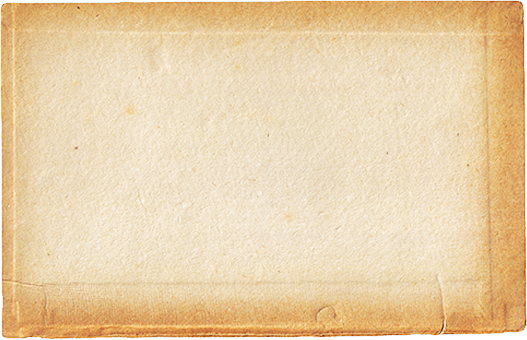
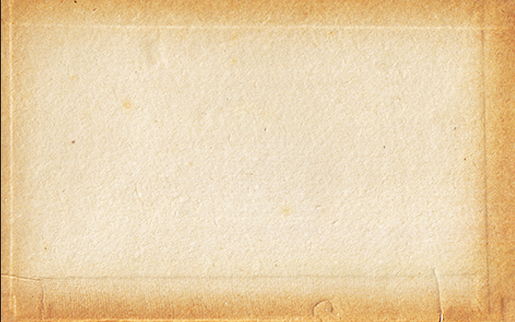
Changed design

diff --git a/Interface.cpp b/Interface.cpp
@@ -1,5 +1,7 @@
 #include "Interface.h"
 
+#include <iostream>
+
 Text globalTime;
 int hour = 0, minute = 0, second = 0;
 
@@ -93,17 +95,11 @@ void Interface::showMessage(const std::wstring& msg) const
 {
     int windowWidth = fieldSize * 7, windowHeight = fieldSize * 4;
 
-    // RectangleShape messageWindow(Vector2f(windowWidth, windowHeight));
-    // messageWindow.setPosition((screenWidth - windowWidth) / 2, (screenHeight - windowHeight) / 2);
-    // messageWindow.setOutlineThickness(0.0047 * screenHeight);
-    // messageWindow.setOutlineColor(Color::Black);
-
-    Text messageText(msg, arialFont, 0.03704 * screenHeight);
-    messageText.setFillColor(Color::Black);
+    Text messageText(msg, optimaFont, 0.03704 * screenHeight);
+    messageText.setFillColor(Color(85, 4, 29));
     messageText.setPosition((screenWidth - messageText.getGlobalBounds().width) / 2, (screenHeight - messageText.getGlobalBounds().height) / 2);
+    img["dialogBackground"].second.setPosition((screenWidth - windowWidth) / 2, (screenHeight - windowWidth) / 2);
 
-    
-    // window->draw(messageWindow);
     window->draw(img["dialogBackground"].second);
     window->draw(messageText);
     window->display();
@@ -114,34 +110,56 @@ void Interface::showMessage(const std::wstring& msg) const
 bool Interface::showWarning(const std::wstring& msg) const
 {
     int windowWidth = fieldSize * 7, windowHeight = fieldSize * 4;
-    int windowXPos = (window->getSize().x - windowWidth) / 2;
-    int windowYPos = (window->getSize().y - windowHeight) / 2;
+    int windowXPos = window->getPosition().x + (window->getSize().x - windowWidth) / 2;
+    int windowYPos = window->getPosition().y + (window->getSize().y - windowHeight) / 2;
 
-    RectangleShape messageWindow(Vector2f(windowWidth, windowHeight));
-    messageWindow.setPosition(windowXPos, windowYPos);
-    messageWindow.setOutlineThickness(0.0047 * screenHeight);
-    messageWindow.setOutlineColor(Color::Black);
+    RenderWindow warningWindow(VideoMode(windowWidth, windowHeight), L"Предупреждение!", Style::None);
+    warningWindow.setPosition(Vector2i(windowXPos, windowYPos));
 
-    Text messageText(msg, arialFont, 0.03704 * screenHeight);
-    messageText.setFillColor(Color::Black);
-    messageText.setPosition(windowXPos + (windowWidth - messageText.getGlobalBounds().width) / 2, windowYPos + fieldSize / 2);
+    Text messageText(msg, optimaFont, 0.03704 * screenHeight);
+    messageText.setFillColor(Color(85, 4, 29));
+    messageText.setPosition((windowWidth - messageText.getGlobalBounds().width) / 2, fieldSize / 2);
 
-    Button yesButton(window, Text(L"Да", arialFont, 0.0157 * screenWidth), windowXPos + fieldSize, windowYPos + fieldSize * 2.5, fieldSize * 2, fieldSize, Color::Blue, Color::Green);
-    Button noButton(window, Text(L"Нет", arialFont, 0.0157 * screenWidth), windowXPos + fieldSize * 4, windowYPos + fieldSize * 2.5, fieldSize * 2, fieldSize, Color::Blue, Color::Green);
+    Button yesButton(&warningWindow, Text(L"Да", optimaFont, 0.0157 * screenWidth), fieldSize, fieldSize * 2.5, fieldSize * 2, fieldSize, \
+            img["dialogWindowButton"].second.getTexture(), img["dialogWindowSelectedButton"].second.getTexture(), Color(85, 4, 29), Color(0, 36, 91));
+    Button noButton(&warningWindow, Text(L"Нет", optimaFont, 0.0157 * screenWidth), fieldSize * 4, fieldSize * 2.5, fieldSize * 2, fieldSize, \
+            img["dialogWindowButton"].second.getTexture(), img["dialogWindowSelectedButton"].second.getTexture(), Color(85, 4, 29), Color(0, 36, 91));
 
-    
-    window->draw(messageWindow);
-    window->draw(messageText);
+    img["dialogBackground"].second.setPosition(0, 0);
 
-    yesButton.drawButton();
-    noButton.drawButton();
-
-    window->display();
+    Event event;
 
     while(true)
     {
-        if (yesButton.isPressed()) return true;
-        else if (noButton.isPressed()) return false;   
+        while(warningWindow.pollEvent(event))
+        {
+            switch(event.type)
+            {
+                
+            }
+        }
+
+        warningWindow.clear();
+
+        warningWindow.draw(img["dialogBackground"].second);
+
+        warningWindow.draw(messageText);
+
+        yesButton.drawButton();
+        noButton.drawButton();
+
+        if (yesButton.isPressed()) 
+        {
+            warningWindow.close();
+            return true;
+        }
+        else if (noButton.isPressed())
+        {
+            warningWindow.close();
+            return false;
+        } 
+
+        warningWindow.display();
     }
 }
 
@@ -218,7 +236,6 @@ Interface::Interface(const RenderWindow* window)
     img["dialogBackground"] = std::pair(Texture(), RectangleShape(Vector2f(fieldSize * 7, fieldSize * 4)));
     img["dialogBackground"].first.loadFromFile("images/interface/windows/DialogWindowsBackground.png");
     img["dialogBackground"].second.setTexture(&img["dialogBackground"].first);
-    img["dialogBackground"].second.setPosition((screenWidth - fieldSize * 7) / 2, (screenHeight - fieldSize * 4) / 2);
 
     img["mainWindowsButton"] = std::pair(Texture(), RectangleShape(Vector2f(0.5 * Width, 0.07831 * Height)));
     img["mainWindowsButton"].first.loadFromFile("images/interface/buttons/MainWindowsButton.png");
@@ -227,6 +244,19 @@ Interface::Interface(const RenderWindow* window)
     img["mainWindowsSelectedButton"] = std::pair(Texture(), RectangleShape(Vector2f(0.255 * Width, 0.07831 * Height)));
     img["mainWindowsSelectedButton"].first.loadFromFile("images/interface/buttons/MainWindowsSelectedButton.png");
     img["mainWindowsSelectedButton"].second.setTexture(&img["mainWindowsSelectedButton"].first);
+
+    img["dialogWindowButton"] = std::pair(Texture(), RectangleShape(Vector2f(fieldSize * 2, fieldSize)));
+    img["dialogWindowButton"].first.loadFromFile("images/interface/buttons/DialogWindowButton.png");
+    img["dialogWindowButton"].second.setTexture(&img["dialogWindowButton"].first);
+
+    img["dialogWindowSelectedButton"] = std::pair(Texture(), RectangleShape(Vector2f(fieldSize * 2, fieldSize)));
+    img["dialogWindowSelectedButton"].first.loadFromFile("images/interface/buttons/DialogWindowSelectedButton.png");
+    img["dialogWindowSelectedButton"].second.setTexture(&img["dialogWindowSelectedButton"].first);
+
+    img["timerBackground"] = std::pair(Texture(), RectangleShape(Vector2f(fieldSize * 5, fieldSize * 1.3)));
+    img["timerBackground"].first.loadFromFile("images/interface/windows/TimerBackground.png");
+    img["timerBackground"].second.setTexture(&img["timerBackground"].first);
+    img["timerBackground"].second.setPosition(0.33 * screenWidth, 0.88 * screenHeight);
 }
 
 Interface::~Interface()
@@ -248,7 +278,7 @@ void Interface::mainMenu() const
     {
         button_text.setString(writing[i]);
         buttons.emplace_back(Button(window, button_text, button_xPos, (0.3358 + i * 0.1092) * Height, button_width, button_height, \
-        img["mainWindowsButton"].second.getTexture(), img["mainWindowsSelectedButton"].second.getTexture(), Color(85, 4, 29), Color(0, 36, 91)));
+            img["mainWindowsButton"].second.getTexture(), img["mainWindowsSelectedButton"].second.getTexture(), Color(85, 4, 29), Color(0, 36, 91)));
         buttons[i].setTextColor(Color::Black);
     }
 
@@ -305,9 +335,9 @@ void Interface::gameWindow() const
         }
     }
 
-    globalTime = Text("00:00:00", optimaFont, 0.0365 * screenWidth); // text for timer
+    globalTime = Text("00:00:00", optimaFont, 0.0265 * screenWidth); // text for timer
     globalTime.setFillColor(Color(85, 4, 29));
-    globalTime.setPosition(0.35 * screenWidth, 0.88 * screenHeight);
+    globalTime.setPosition(0.375 * screenWidth, 0.893 * screenHeight);
 
     Thread th(&timer);
 
@@ -396,6 +426,7 @@ void Interface::gameWindow() const
 
         window->draw(img["gameWindow"].second);
         window->draw(img["fieldBackground"].second);
+        window->draw(img["timerBackground"].second);
 
         exitButton.drawButton();
         startButton.drawButton();

diff --git a/Button.cpp b/Button.cpp
@@ -81,6 +81,23 @@ Button::Button(RenderWindow *window, int x, int y, int b_width, int b_height, co
     button.setTexture(this->texture); 
 }
 
+Button::Button(RenderWindow *window, const Text& text, int x, int y, int b_width, int b_height, const Texture* texture)
+{
+    this->window = window;
+    xPos = x;
+    yPos = y;
+    width = b_width;
+    height = b_height;
+    pressedCounter = 0;
+    color = colorOn = Color(0, 0, 0, 255);
+    this->text = text;
+    this->texture = texture ? new Texture(*texture) : new Texture();
+
+    button = RectangleShape(Vector2f(width, height));
+    button.setPosition(x, y);
+    button.setTexture(this->texture); 
+}
+
 Button::Button (const Button& obj)
 {
     Swap(obj);

diff --git a/Button.h b/Button.h
@@ -33,6 +33,8 @@ public:
 
     Button(RenderWindow*, const Text&, int, int, int, int, const Texture*, const Texture*, const Color&, const Color&);
 
+    Button(RenderWindow *, const Text&, int, int, int, int, const Texture*);
+
     Button(RenderWindow*, int, int, int, int, const Texture*);
 
     Button (const Button&);
